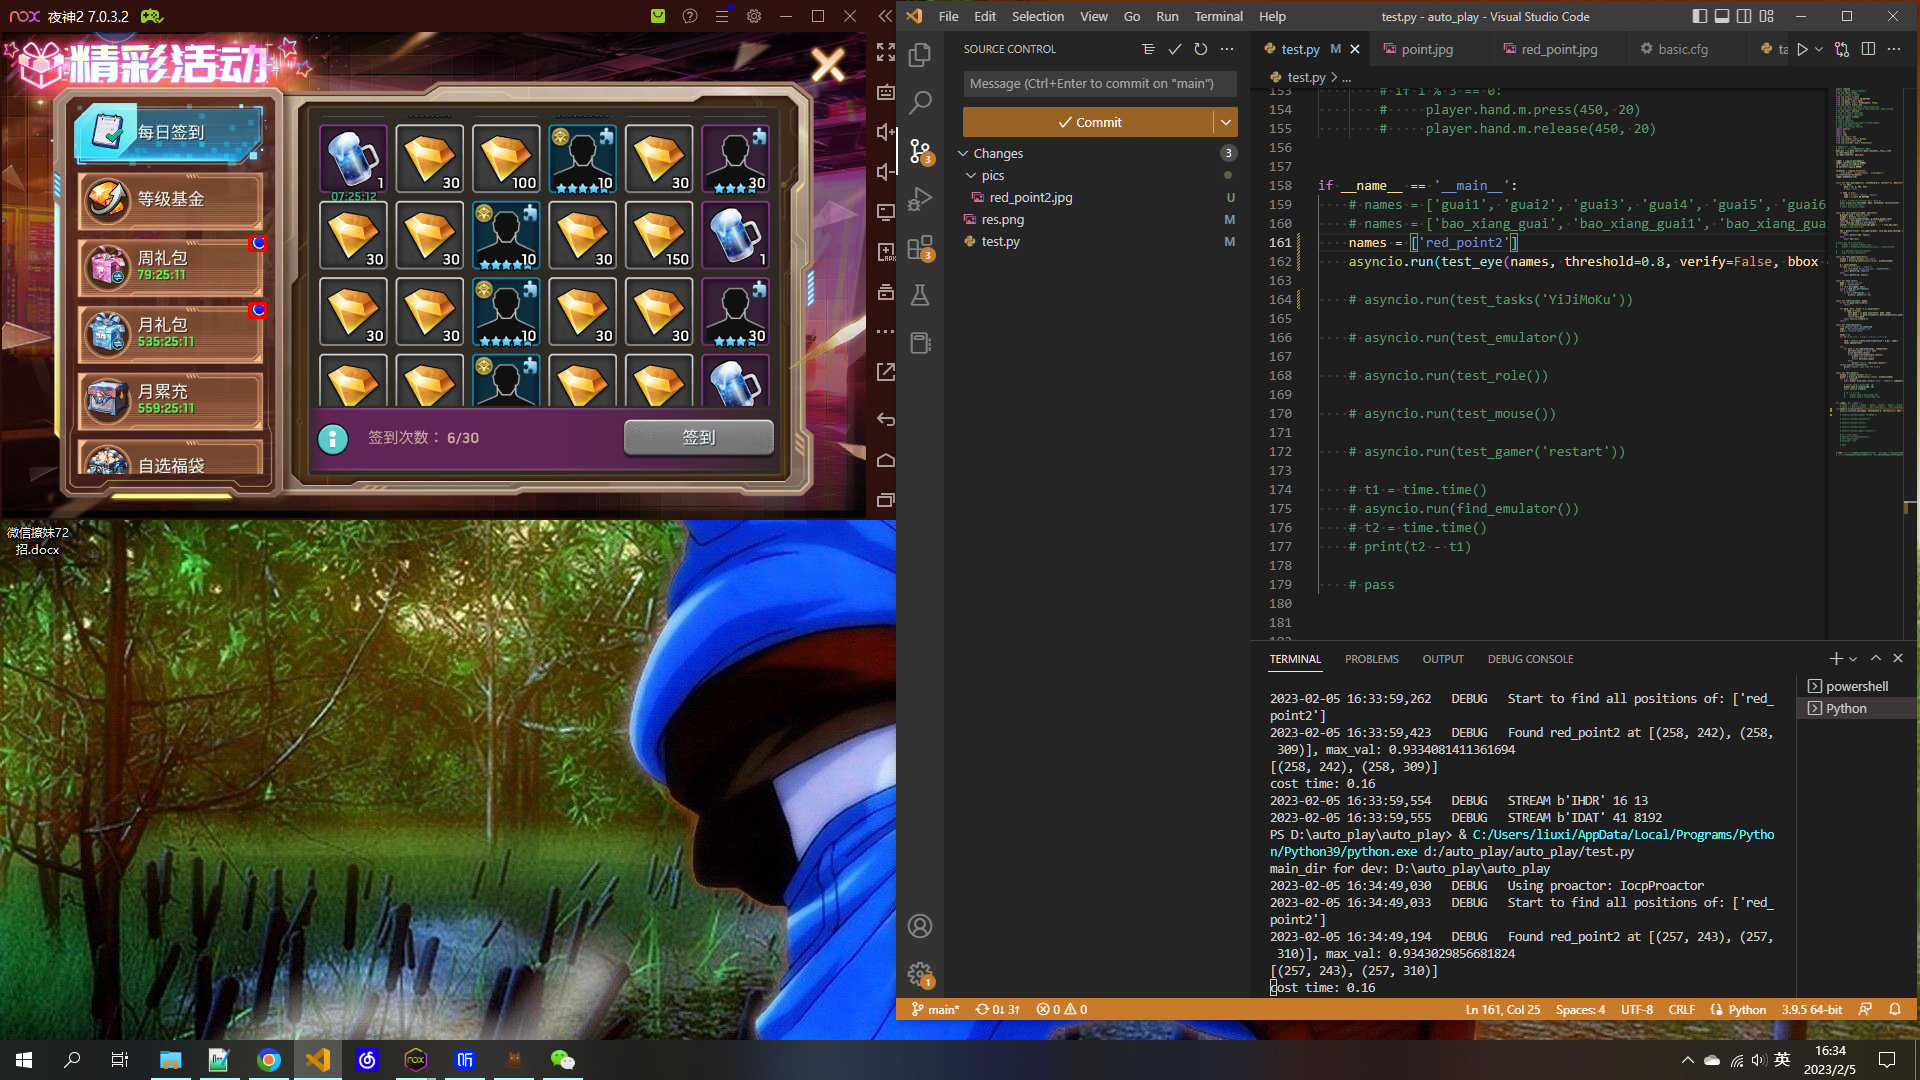
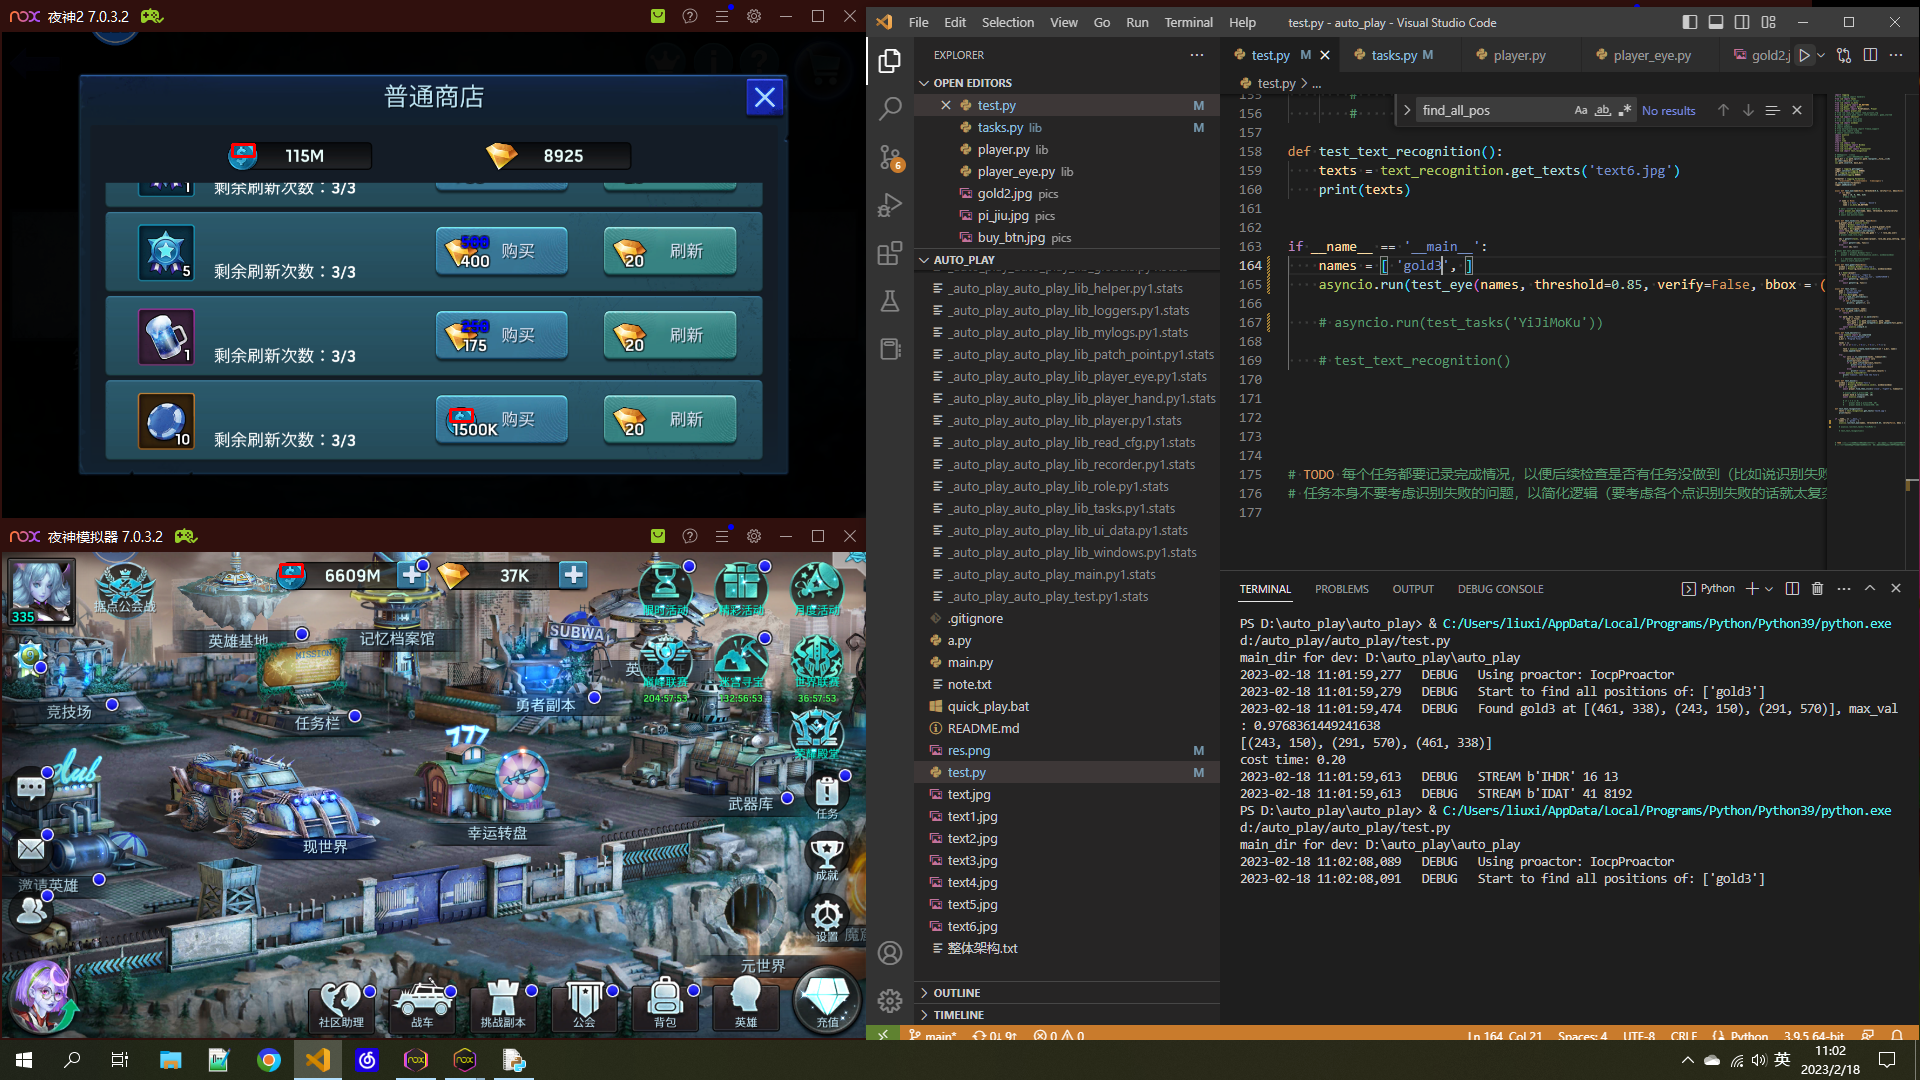
提高魔窟购买商品准确率

diff --git a/lib/tasks.py b/lib/tasks.py
@@ -2721,10 +2721,16 @@ class YiJiMoKu(Task):
         await self.player.find_then_click('gou_wu_che')
         await self.player.find_then_click('pu_tong_shang_dian')
         await self.player.monitor('ptsd_title')
-        for _ in range(20):
-            list1 = await self.player.find_all_pos('gold2')
+
+        finish_buy = False    # 东西是否都买完了，可以结束了
+
+        while True:
+            # gold2 包含了按钮花纹，而按钮花纹会因为位置不同而不同，影响识别率
+            # list1 = await self.player.find_all_pos('gold2')
+            list1 = await self.player.find_all_pos('gold3')
             list2 = await self.player.find_all_pos(['zhuan_pan_bi', 'jing_ji_men_piao'])
             pos_list = self._merge_pos_list(list1, list2, dy=30)
+
             if pos_list:
                 await self.player.click(pos_list[0], cheat=False)
                 try:
@@ -2735,9 +2741,11 @@ class YiJiMoKu(Task):
                     lack_gold = True
                     break
             else:
+                if finish_buy:
+                    break
                 reach_bottom = await self.player.drag_then_find((350, 450), (350, 180), 'reach_bottom')
                 if reach_bottom:
-                    break
+                    finish_buy = True
 
         await self.player.find_then_click(CLOSE_BUTTONS)
 
@@ -2752,7 +2760,9 @@ class YiJiMoKu(Task):
         if self._get_cfg('mai_hui_zhang'):
             goods_list.append('hui_zhang_moku')
 
-        for _ in range(20):
+        finish_buy = False    # 东西是否都买完了，可以结束了
+
+        while True:
             if not lack_gold and self.player.is_exist('gold2'):
                 await self.player.find_then_click('gold2', cheat=False)
                 try:
@@ -2763,11 +2773,14 @@ class YiJiMoKu(Task):
                     lack_gold = True
 
             if not lack_diamond:
-                list1 = await self.player.find_all_pos('buy_btn')
-                list2 = await self.player.find_all_pos(goods_list)
-                pos_list = self._merge_pos_list(list1, list2, dy=30)
+                # # buy_btn 识别率太低
+                # list1 = await self.player.find_all_pos('buy_btn')
+                pos_list = await self.player.find_all_pos(goods_list)
+                # pos_list = self._merge_pos_list(list1, list2, dy=30)
                 if pos_list:
-                    await self.player.click(pos_list[0], cheat=False)
+                    pos = pos_list[0]
+                    pos = (pos[0] + 340, pos[1] + 20)
+                    await self.player.click(pos)
                     name, _ = await self.player.monitor(['lack_of_diamond', 'ok8'], timeout=3)
                     if name == 'ok8':
                         await self.player.find_then_click(OK_BUTTONS)
@@ -2776,10 +2789,15 @@ class YiJiMoKu(Task):
                     else:
                         lack_diamond = True
 
-            # 没东西可以买了，就向上滑动
+            
+            if finish_buy:
+                break
+
+            # # 没东西可以买了(金币、钻石都没可买的），向上滑动
             reach_bottom = await self.player.drag_then_find((350, 450), (350, 180), 'reach_bottom')
             if reach_bottom:
-                break
+                # 达到了底部，不能立即结束，有可能还有东西需要买的
+                finish_buy = True
 
         await self.player.find_then_click(CLOSE_BUTTONS)
 
@@ -2793,13 +2811,16 @@ class YiJiMoKu(Task):
     async def _enter(self):
         await self._move_to_right_down()
         await self.player.click((635, 350))
-        name, _ = await self.player.monitor(['close', 'jin_ru', 'hou_kai_qi'])
+        name, _ = await self.player.monitor(['close', 'jin_ru', 'hou_kai_qi', 'yi_jian_ling_qv2'])
         if name == 'close':
             await self._equip_team_yjmk()
             await self.player.find_then_click('start_fight')
             return True
         elif name == 'hou_kai_qi':
             # 活动未开启
+            return False
+        elif name == 'yi_jian_ling_qv2':
+            # 一点就进来了是太小的小号
             return False
         elif name == 'jin_ru':
             await self.player.click((110, 435))    # click enter btn
@@ -2814,7 +2835,7 @@ class YiJiMoKu(Task):
                 await self.player.find_then_click('start_fight')
                 return True
             elif name in ['close', 'kai_shi_tiao_zhan']:
-                await self.player.find_then_click('close', timeout=2, raise_exception=True)    # 长时间未登录，会有新手引导
+                await self.player.find_then_click('close', timeout=2, raise_exception=False)    # 长时间未登录，会有新手引导
                 await self.player.find_then_click('kai_shi_tiao_zhan')
                 await self.player.find_then_click(OK_BUTTONS)
                 await self.player.monitor('close')

diff --git a/test.py b/test.py
@@ -161,10 +161,10 @@ def test_text_recognition():
 
 
 if __name__ == '__main__':
-    # names = [ 'bai_fen_bai', 'hui_zhang']
-    # asyncio.run(test_eye(names, threshold=0.8, verify=False, bbox = (0, 0, 1920, 1080)))
+    # names = [ 'gold3', ]
+    # asyncio.run(test_eye(names, threshold=0.85, verify=False, bbox = (0, 0, 1920, 1080)))
 
-    asyncio.run(test_tasks('GongHui'))
+    asyncio.run(test_tasks('YiJiMoKu'))
 
     # test_text_recognition()
 
